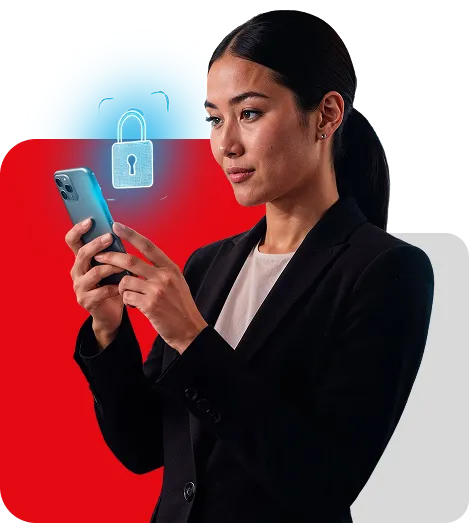
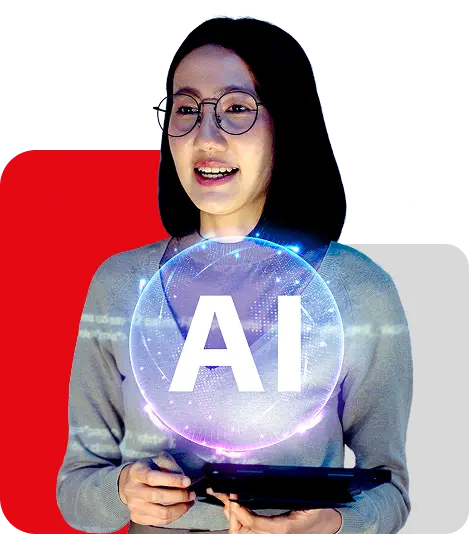
aaism lp

diff --git a/lp/isaca-aaism-certification/assets/css/style.css b/lp/isaca-aaism-certification/assets/css/style.css
@@ -1753,3 +1753,18 @@ footer .item ul li a {
 .thankyou--card-item > img {
     display: none !important;
 }
+
+.powered-ai {
+    background: rgba(77, 142, 255, 0.10);
+    color: var(--Soft-Blue, #4D8EFF);
+    width: fit-content;
+    padding: 8px 16px;
+    border-radius: 8px;
+    display: flex;
+    gap: 8px;
+    align-items: center;
+}
+
+.powered-ai img {
+    width: 25px;
+}

diff --git a/lp/isaca-aaism-certification/index.php b/lp/isaca-aaism-certification/index.php
@@ -122,6 +122,7 @@ if ($course_data !== null) {
                     <!--/ col start /-->
                     <div class="col-lg-7 col-md-6">
                         <div class="item">
+                            <p class="powered-ai"><img src="assets/images/ai-powered.gif" alt=""> AI Powered Course</p>
                             <h3 class="d-none d-lg-block">The First Certification Built to Secure AI Security
                                 Management</h3>
                             <h1>Advanced in AI Security Management (AAISM) Certification Training</h1>
